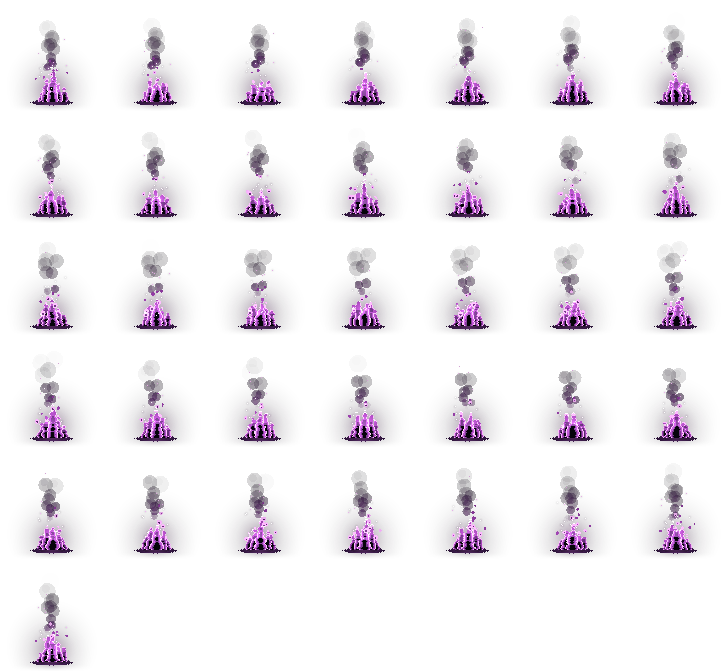
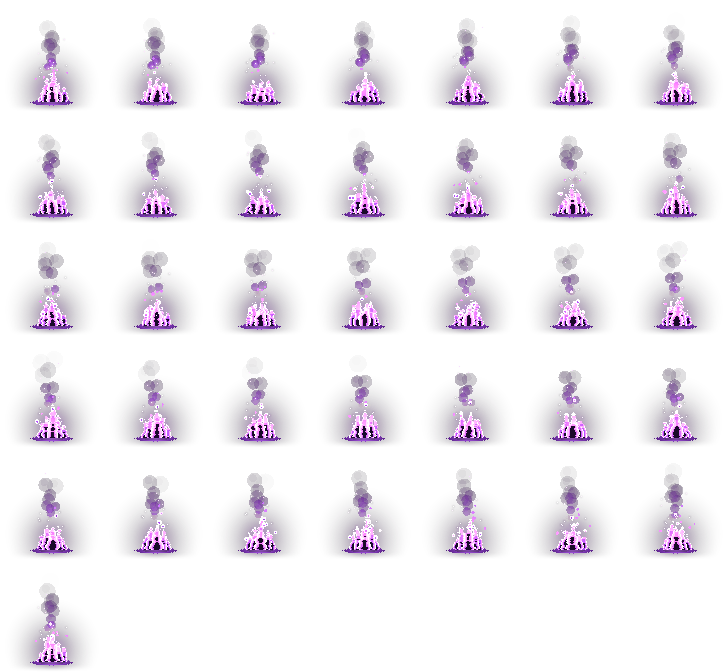
Boss-Aura heller und groesser, Heilung als Remix ohne Standardfigur mit gruener Palette und Glow, HANDOFF

diff --git a/tools/pixelfx/src/fx/holy/heal-clean.js b/tools/pixelfx/src/fx/holy/heal-clean.js
@@ -1,0 +1,176 @@
+import { Particles, Lights, P, Rng, fit, sparkle, clamp, smooth, seg, lerp, ease, TAU, WHITE, mix, luma, rgb, READY } from "../../core/index.js";
+import { shapeOf, recolor, oval } from "./_lib.js";
+
+export const meta = {
+  name: "Heal (no body)",
+  desc: "Petals of light bloom under the feet, a hoop of light rises up the body restoring its colour and leaving sparkles, and motes spiral up and pop into tiny hearts.",
+  tags: ["holy", "heal", "restore", "buff", "petals", "hearts", "character", "one-shot"],
+  size: [80, 104],
+  origin: [40, 92],
+  duration: 1.9,
+  loop: false,
+  fps: 30,
+  bg: "ground",
+  actor: 0,
+  options: { palette: ["#3d2027", "#7d3f35", "#c97a4a", "#f2b46a", "#ffd994", "#fff0cf", "#fffaf2", "#ffffff"], seed: 2 },
+};
+
+const HURT = { turn: 0.8, crouch: 5, lean: 3, hy: 1, fx: 1, fy: -21, bx: 7, by: -15, ffx: 4, fbx: -3 };
+const UP = { turn: 1.15, crouch: -1, fx: -13, fy: -36, bx: 14, by: -36, hy: -1, ffx: -3, fbx: 4 };
+export const act = {
+  onBody: true,
+  poses: [
+    [-0.3, HURT],
+    [0.16, { ...HURT, crouch: 6 }],
+    [0.5, { ...HURT, crouch: 3, lean: 1, hy: 0 }],
+    [0.78, UP],
+    [1.2, { ...UP, crouch: 0, fy: -30, by: -30, hy: 0 }],
+    [1.9, READY],
+  ],
+};
+
+const SY = 0.3, NP = 8, PR = 16, LIFT0 = 0.16, LIFT1 = 0.74, TOPY = -43;
+const HEART = [".#.#.", "#####", ".###.", "..#.."];
+
+// a tiny heart of light: cream body, a white glint, a warm rim
+function heart(p, x, y, C, a) {
+  const X = Math.round(x) - 2, Y = Math.round(y) - 2, at = (i, j) => j >= 0 && j < 4 && i >= 0 && i < 5 && HEART[j][i] === "#";
+  for (let j = -1; j <= 4; j++)
+    for (let i = -1; i <= 5; i++) {
+      if (at(i, j)) p.dot(X + i, Y + j, i === 1 && j === 1 ? WHITE : j >= 2 ? C[5] : C[6], a);
+      else if (at(i - 1, j) || at(i + 1, j) || at(i, j - 1) || at(i, j + 1)) p.dot(X + i, Y + j, C[3], a * 0.9);
+    }
+  p.glow(x, y, 6, C[5], 0.4 * a);
+}
+
+export function create(o) {
+  const C = fit(o.palette, 8), R = new Rng(o.seed);
+  // no body: sparkles land on a column about the size of the stock character
+  const S = { edge: [] };
+  for (let y = -34; y <= -2; y++) for (const x of [-7, 7]) S.edge.push([x, y]);
+  const ps = new Particles({ rng: R, ground: () => 0, sparks: [WHITE, C[6], C[5], C[4]] });
+  const lights = new Lights();
+  const rows = new Map();
+  for (const [x, y] of S.edge) (rows.get(y) ?? rows.set(y, []).get(y)).push(x);
+  // petals, each blooming on its own beat round the ring
+  const petals = Array.from({ length: NP }, (_, k) => ({ a: (k / NP) * TAU + 0.2, t0: 0.02 + ((k * 3) % NP) * 0.035, w: R.range(4.2, 5.2) }));
+  // motes riding a spiral up round the body: from the petal tips as they open, and from the hoop when it bursts
+  const motes = [];
+  for (let k = 0; k < NP; k++) motes.push({ t0: 0.2 + k * 0.05, th0: petals[k].a, r0: PR * 0.9, y0: -1, w: 4.2 * (k % 2 ? 1 : -1), v: R.range(46, 58), life: R.range(0.75, 0.95), kind: k % 2 });
+  for (let k = 0; k < 8; k++) motes.push({ t0: LIFT1 + R.range(0, 0.06), th0: (k / 8) * TAU, r0: R.range(12, 18), y0: TOPY + R.range(-2, 4), w: 3.6 * (k % 2 ? 1 : -1), v: R.range(14, 34), life: R.range(0.35, 0.6), kind: (k + 1) % 2 });
+  let t = 0, burst = false, lastRow = 1;
+
+  const hoopY = (tt) => lerp(0, TOPY, ease.inOutSine(seg(tt, LIFT0, LIFT1)));
+  const hoopR = (tt) => lerp(PR, 12, seg(tt, LIFT0, LIFT1));
+
+  function bloom(k, tt) {
+    const pe = petals[k];
+    return ease.outBack(seg(tt, pe.t0, pe.t0 + 0.3), 1.8) * (1 - ease.inBack(seg(tt, 1.25 + k * 0.02, 1.6 + k * 0.02), 1.4));
+  }
+
+  // a petal of a lotus of light round the feet: rooted on a ring on the floor, leaning out as it opens,
+  // foreshortened as it turns away; a lit rim, a white vein, a translucent warm body, a white tip
+  function petal(p, k, back) {
+    const pe = petals[k], g = pe.a + t * 0.4, near = Math.sin(g) >= 0, b = bloom(k, t);
+    if (near === back || b <= 0.02) return;
+    const ca = Math.cos(g), sa = Math.sin(g), rb = 6, rt = rb + 9 * Math.min(1.2, b), h = (k % 2 ? 7 : 9) * b;
+    const bx = ca * rb, by = sa * rb * SY, tx = ca * rt, ty = sa * rt * SY - h, L = Math.hypot(tx - bx, ty - by);
+    if (L < 1.5) return;
+    const ux = (tx - bx) / L, uy = (ty - by) / L, W = pe.w * Math.min(1, b) * (0.35 + 0.65 * Math.abs(sa)), pad = W + 1;
+    p.each(Math.min(bx, tx) - pad, Math.min(by, ty) - pad, Math.max(bx, tx) + pad, Math.max(by, ty) + pad, (x, y, sx, sy) => {
+      const dx = x - bx, dy = y - by, u = (dx * ux + dy * uy) / L;
+      if (u < 0 || u > 1) return;
+      const hw = W * Math.pow(Math.sin(Math.PI * Math.pow(u, 0.6)), 0.7) + 0.2, v = Math.abs(-dx * uy + dy * ux) / hw;
+      if (v > 1) return;
+      if (u > 0.9) return p.put(sx, sy, WHITE, 1);
+      if (v > 0.7) return p.put(sx, sy, u < 0.3 ? C[3] : u < 0.7 ? C[5] : C[6], 1);
+      if (v < 0.2 && u > 0.15 && u < 0.85) return p.put(sx, sy, u < 0.55 ? C[5] : C[6], back ? 0.75 : 0.85);
+      p.blendPx(sx, sy, u < 0.45 ? C[3] : C[4], back ? 0.6 : 0.45);
+    });
+    p.glow(tx, ty, 5, C[5], 0.35 * Math.min(1, b));
+  }
+
+  // the hoop of light rising up the body: far half behind, near half in front, a soft glow round it
+  function hoop(p, back) {
+    if (t < LIFT0 || t > LIFT1 + 0.12) return;
+    const y = hoopY(t), r = hoopR(t) * (t > LIFT1 ? 1 - (t - LIFT1) / 0.12 : 1), keep = back ? (g) => Math.sin(g) < 0 : (g) => Math.sin(g) >= 0;
+    oval(p, 0, y, r, r * SY, (g) => (Math.sin(g) > 0.5 ? WHITE : C[6]), back ? 0.8 : 1, keep);
+    if (!back) {
+      oval(p, 0, y + 1, r - 0.5, r * SY, C[4], 1, keep);
+      for (let i = -2; i <= 2; i++) p.glow(i * r * 0.45, y, 8, C[5], 0.32);
+    }
+  }
+
+  return {
+    update(dt) {
+      t += dt;
+      // the hoop leaves sparkles on the body as it passes each row
+      if (t > LIFT0 && t < LIFT1) {
+        const Y = Math.round(hoopY(t));
+        for (let y = lastRow; y > Y; y--) {
+          const xs = rows.get(y);
+          if (!xs || !R.chance(0.45)) continue;
+          ps.spawn(P.STAR, R.pick(xs) + R.range(-1, 1) * 2, y, R.range(-4, 4), -R.range(4, 12), R.range(0.3, 0.55), R.chance(0.5) ? WHITE : C[6], R.range(0.6, 1.6));
+        }
+        lastRow = Math.min(lastRow, Y);
+      }
+      if (!burst && t >= LIFT1) {
+        burst = true;
+        lights.add(0, TOPY, 26, C[5], 0.55, 0.3);
+        lights.add(0, TOPY, 10, WHITE, 0.45, 0.08);
+      }
+      ps.update(dt);
+      lights.update(dt);
+    },
+    drawBack(p) {
+      // a warm pool under the flower
+      const pool = smooth(0, 0.2, t) * (1 - smooth(1.3, 1.75, t));
+      if (pool > 0) p.glow(0, -2, 30, C[4], 0.3 * pool);
+      for (let k = 0; k < NP; k++) petal(p, k, true);
+      hoop(p, true);
+      ps.draw(p, "back");
+      riders(p, true);
+    },
+    draw(p) {
+      if (t > LIFT0 && t < LIFT1) p.glow(0, hoopY(t), 18, C[5], 0.35);
+      for (let k = 0; k < NP; k++) petal(p, k, false);
+      hoop(p, false);
+      if (t >= LIFT1 && t < LIFT1 + 0.25) sparkle(p, 0, TOPY, 8 * (1 - (t - LIFT1) / 0.25), WHITE, C[5], 0.6);
+      riders(p, false);
+      ps.draw(p, "front");
+      lights.draw(p);
+    },
+  };
+
+  // the spiralling motes, each popping into a heart or a sparkle at the end of its ride
+  function riders(p, back) {
+    for (const m of motes) {
+      const a = t - m.t0;
+      if (a < 0) continue;
+      const at = (aa) => {
+        const th = m.th0 + m.w * aa, r = m.r0 * (1 - 0.45 * (aa / m.life));
+        return [Math.cos(th) * r, m.y0 - m.v * aa, Math.sin(th)];
+      };
+      if (a < m.life) {
+        const [x, y, z] = at(a);
+        if (z < 0 !== back) continue;
+        for (let j = 0; j < 7; j++) {
+          const aj = a - j * 0.03;
+          if (aj < 0) break;
+          const [tx, ty, tz] = at(aj);
+          if (tz < 0 !== back) continue;
+          p.dot(tx, ty, j === 0 ? WHITE : j < 3 ? C[6] : C[5], (1 - j / 7) * (back ? 0.6 : 1));
+        }
+        p.glow(x, y, 4, C[5], back ? 0.2 : 0.4);
+        continue;
+      }
+      // the pop: a quick sparkle, then a heart (or a star) that floats up and fades
+      const u = (a - m.life) / 0.36;
+      if (u >= 1 || back) continue;
+      const [x, y] = at(m.life), k = 1 - smooth(0.5, 1, u);
+      if (u < 0.12) sparkle(p, x, y, 3, WHITE, C[6], 0.5);
+      else if (m.kind) heart(p, x, y - u * 6, C, k);
+      else sparkle(p, x, y - u * 5, 1 + 2 * k * (0.7 + 0.3 * Math.sin(a * 30)), WHITE, C[5], 0.45 * k);
+    }
+  }
+}

diff --git a/src/render/GameScene.ts b/src/render/GameScene.ts
@@ -1169,7 +1169,8 @@ export class GameScene extends Phaser.Scene {
           const pos = this.bodyPos(this.player());
           if (pos) {
             const f = this.feetPos(this.player());
-            if (!f || !playPixelfx(this, 'heal', f.x, f.y, { depth: OVERLAY_DEPTH - 1 })) this.fx.sparkle(pos.x, pos.y, 0x6fff9a);
+            if (!f || !playPixelfx(this, 'heal', f.x, f.y, { depth: OVERLAY_DEPTH - 1, scale: 2.5 })) this.fx.sparkle(pos.x, pos.y, 0x6fff9a);
+            this.glow(0x1c6a34, 0.3, 450);
             this.fx.floatText(pos.x, pos.y - 30, `+${e.amount}`, '#6fff9a', 16);
           }
           this.sfx.potion();
@@ -1410,7 +1411,7 @@ export class GameScene extends Phaser.Scene {
         au = undefined;
       }
       if (!au) {
-        const s = playPixelfx(this, a.enraged ? 'boss_rage' : 'boss_aura', f.x, f.y + 8, { depth: v.img.depth - 0.5, alpha: a.enraged ? 1 : 0.85, from: ((a.id * 0.53) % 1) * 2.4 });
+        const s = playPixelfx(this, a.enraged ? 'boss_rage' : 'boss_aura', f.x, f.y + 8, { depth: v.img.depth - 0.5, alpha: 1, scale: 3.4, from: ((a.id * 0.53) % 1) * 2.4 });
         if (!s) continue;
         au = { s, rage: a.enraged };
         this.bossAuras.set(a.id, au);

diff --git a/HANDOFF.md b/HANDOFF.md
@@ -1,5 +1,10 @@
 # HANDOFF – Aschenthron
 
+## AKTUELL (2026-11-03, Sonnet-Session „optik-rest“, Branch `neuer-look`)
+- **Erledigt:** (1) Stadtstraße (gid **1**, Zone none) und Felsenwacht-Platz: `groundLook.ts tileLook` case 1 = `FLAGS` mit dunklerer Tönung (96,82,112,0.5). (2) Boss-Aura: hellere Paletten (violett / Glutorange), alpha 1, Skalierung 3,4 (`updateBossAuras`). (3) Heilung: neuer Remix `tools/pixelfx/src/fx/holy/heal-clean.js` (Original zeichnete die graue Standardfigur mit ins Sheet, das war das „blasse Gespenst“), hellere grüne Palette, Skalierung 2,5, zusätzlich `glow(0x1c6a34, 0.3, 450)`. pixelfx-Skill war geladen und wurde genutzt (Kontaktbögen per `tools/render.mjs`).
+- **Geprüft:** tsc, Lint, 313 Tests, Build grün; im Browser Straße, Felsenwacht, Heilung (Frame 11) und Boss-Aura normal/wütend (Räuberfürst Harkon) gesehen. Screenshots des versteckten Browsers sind niedrig aufgelöst und hinken.
+- **Mängel:** Heil-Effekt nur in einem frühen Frame gesehen (Ring + Blätter); Glow-Wirkung nicht einzeln beurteilt. Boss-Aura normal ist eher flankierend lavendel als wuchtig. Straße gid 1 gilt nur in Zone none (Dungeon-gid-1 unverändert).
+
 ## AKTUELL (2026-11-03, später Abend): Spaßsäulen 1, 3, 4 + offene Mängel (Branch `neuer-look`, Commits a9167f5 … 2ce06fa)
 - **Stand:** (1) pixelfx-Zauber gebacken und eingebaut (`skillFx` in `GameScene.ts`): Blitz `lightning/lightning-strike` (ab 0,8 s), Frostnova/Gletscherbruch `ice/frost-nova` + runder Code-Ring, Wirbelhieb `melee/spin-slash`, Erschütterung/Schädelspalter/Titanenhieb/Hinrichtung `impacts/ground-slam`, Heilung `holy/heal`. Geschosse (Pfeil, Glutblitz, Feuerball) bleiben Code. (2) Krit als Remix `tools/pixelfx/src/fx/impacts/crit-compact.js` (Größenregler `k`), Loot-Strahl als Remix `pickups/loot-pillar.js` (80 px, schmal, ohne eigenes Schwert, Kern in Seltenheitsfarbe, 15 fps, normale Mischung, kein setTint, Phase je Beute versetzt). (3) Kamerablitze ersetzt durch `glow()` (gedämpfte Farbfläche). (4) Säule 3: Ereignis `learned` → Runenkreis `arcane/magic-circle-cast`, Banner „Neue Fertigkeit“, Schnellleisten-Platz pulsiert (`Ui.pulseSkill`). (5) Säule 4: Boss-Aura `shadow/shadow-flames` (violett, bei Wut glutrot) hinter Bossen (`updateBossAuras`), Boss-Auftritt (`bossIntro`: Banner, Beben, Boss-Ton, max. alle 3 min), Zonen ≥ 3 Stufen über dem Spieler: Banner „Gefahr!“ + blutrote Vignette (`applyVignette`, nach Level-up neu). (6) `playPixelfx` registriert nachträglich (spät geladene Sheets), Option `from` (Startsekunde). (7) Sonnet-Session: Ninja-Kacheln zentral abgetönt (`NINJA_GRADE`/`gradeSheet` in `ninja.ts`, Häuser über `gradeRgb`), Zielfarben der Bodensuche ebenfalls abgetönt. (8) Sonnet-Session: HUD-Porträt im DCSS-Modus = Brustbild des Helden (`Ui.updatePortrait`). (9) Credits (F1) + ASSETS.md mit pixelfx-MIT-Hinweis. Alle Sheets zusammen 4,2 MB (vorher 4 MB für 7 Effekte), größtes Sheet 1920x1584.
 - **Geprüft:** tsc, Lint, 313 Tests, Build grün; `/code-review` (7 Befunde, alle behoben). Browser: Treffer und Krit im echten Kampf (Wildhund), Blitz, Frostnova, Wirbelhieb, Erschütterung, Skillgewinn mit Banner und Pulsieren, Loot aller Seltenheiten, Boss-Aura normal und wütend (Spinnenkönigin Vyrra), Gefahr-Banner Aschenöde, Stadt abgetönt, Porträt in `?figuren=dcss`.
